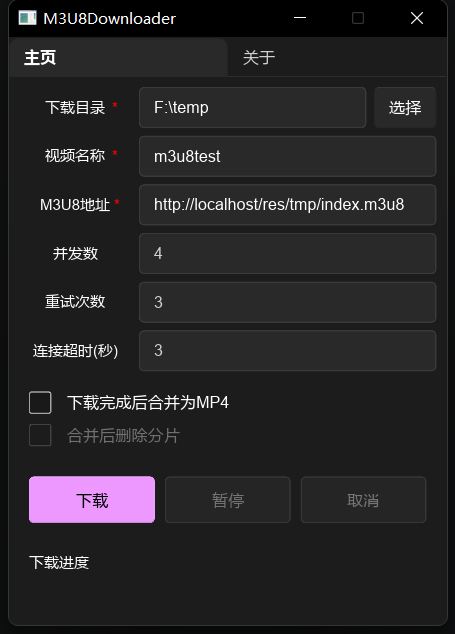
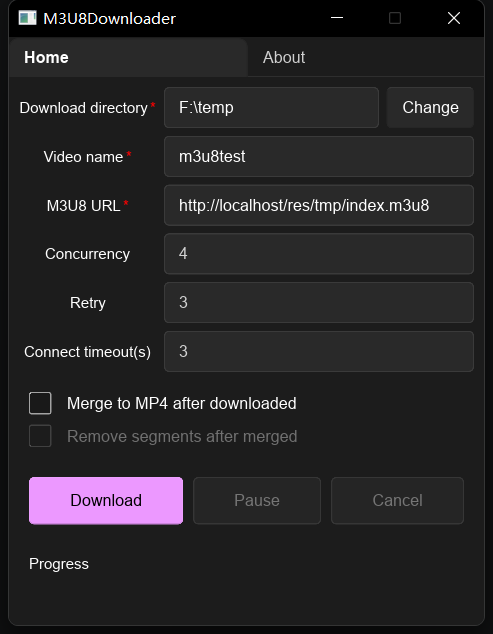
更新截图、README

diff --git a/README.md b/README.md
@@ -1,19 +1,20 @@
 # M3U8Downloader
-使用 `Rust` 语言实现的**M3U8**视频下载器。
+基于异步单线程模型实现的 `Windows` 桌面端**M3U8**视频下载器。界面美观、易于使用，使用 `Rust` 语言开发，性能强大、内存占用率极低。
 
 感谢强大的 `Rust` 生态：`slint`、`tokio`、`futures`、`reqwest`等！
 
 ## 主要功能
 
-- [x] 异步并发下载
-- [x] 自动选择最高分辨率（优先 `RESOLUTION`，再 `BANDWIDTH`）
+- [x] 异步单线程并发下载
+- [x] 自动选择最高分辨率
 - [x] 自定义并发数、重试次数和连接超时
 - [x] 实时显示下载进度（总分片数、已下载分片数和大小）
 - [x] 支持暂停和取消
 - [x] 支持合并为MP4（需要安装 `FFmpeg`）
 - [x] 合并后可删除分片
-- [ ] 自定义请求头
-- [ ] 自适应语言（中文/英文）
+- [x] 支持中文/英文（根据系统区域自适应）
+- [x] 浅色/暗黑主题自适应
+- [ ] 支持默认设置，如请求头、代理模式等。
 
 ## 使用
 